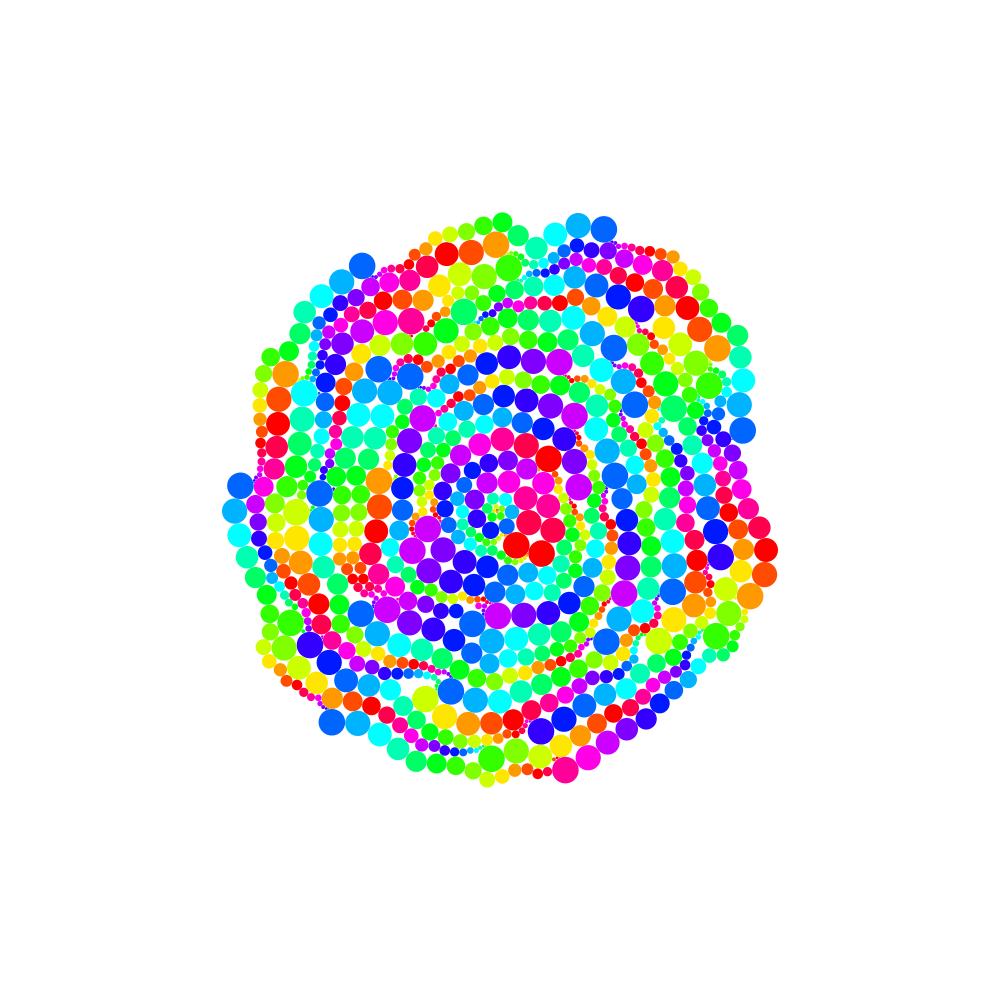
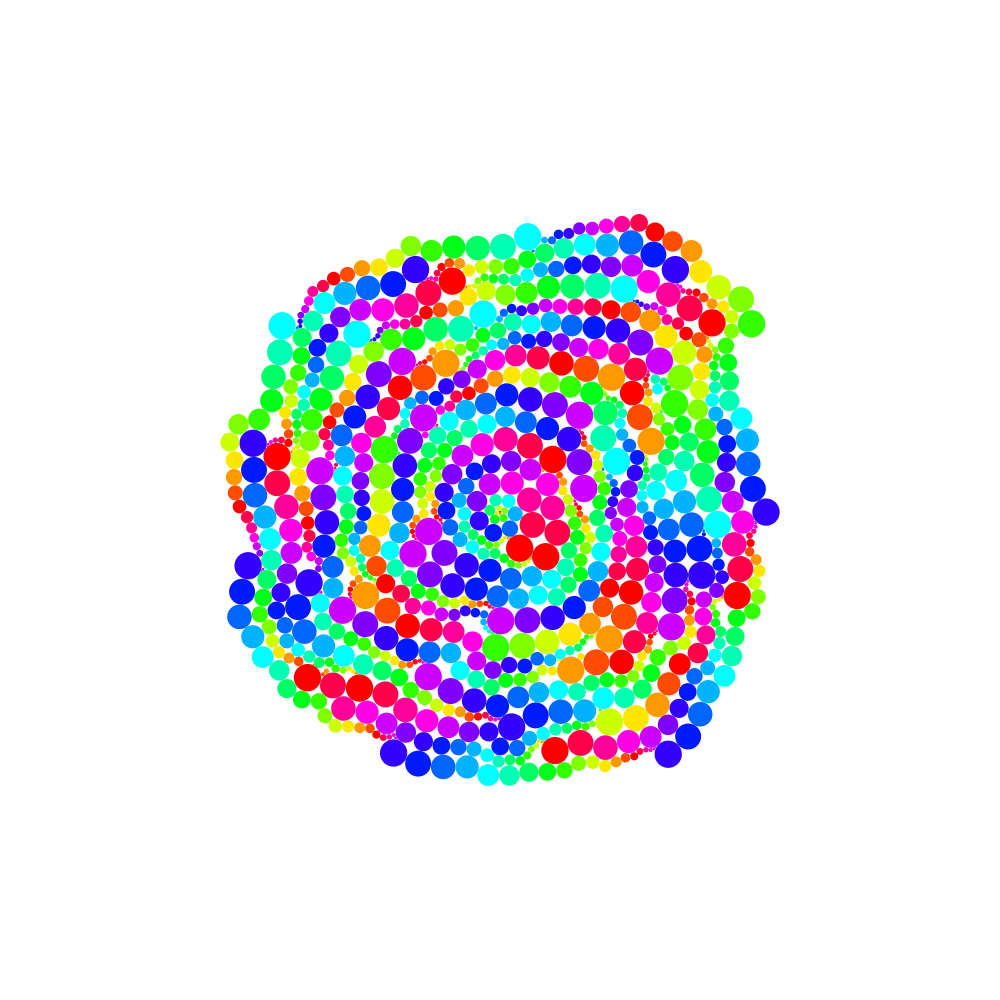
Upgrade all packing examples with new iterations

Changed region(s): [[0.217, 0.217, 0.775, 0.806]]

diff --git a/examples/main_circlepackingbaolayer.py b/examples/main_circlepackingbaolayer.py
@@ -16,13 +16,13 @@ def fdraw(node,index,style):
 poly = Circle().scale(100.0).polygon(30).close()
 canvas.draw(poly,Color.black())
 boundaries = poly.segments()
-inodes     = BaoNode.fromcircle(Circle(Point(0.0,95.0),10.0))
 baopattern = BaoPatternLayer().fdraw(fdraw).fdrawlayer(fdrawlayer).radiuspattern(R(5.0,5.0).samples(20)).colorpattern([Color.hue2color(float(index)/20.0) for index in range(20)])
+inodes     = BaoNode.fromcircle(Circle(Point(0.0,95.0),10.0))
 # baopattern = BaoPattern().fdraw(fdraw).radiuspattern(R(5.0,5.0).samples(20)).colorpattern([Color.hue2color(float(index)/20.0) for index in range(20)])
 
 # canvas.draw(inodes)
 
 # packing = CirclePackingBao.iter(boundaries,inodes,baopattern,200,-1.0)
-packing = CirclePackingBaoLayer.iter(boundaries,inodes,baopattern,10000,-1.0)
+packing = CirclePackingBaoLayer().iter(10000,boundaries,inodes,baopattern,-1.0)
 
 canvas.save("circlepackingbaolayer.png")

diff --git a/examples/main_circlepackingbaoswitch.py b/examples/main_circlepackingbaoswitch.py
@@ -10,11 +10,11 @@ def fdraw(node,index,style):
 poly = Circle().scale(100.0).polygon(30).close()
 canvas.draw(poly,Color.black())
 boundaries = poly.segments()
-inodes     = baonodes0()
 baopattern = BaoPatternSwitch().fdraw(fdraw).radiuspattern(R(1.0,2.0).samples(20)).colorpattern([Color.hue2color(float(index)/20.0) for index in range(20)]).sidepattern([1.0] * 10 + [-1.0]*10)
+inodes     = baonodes0()
 
 canvas.draw(inodes)
 
-packing = CirclePackingBaoSwitch.iter(boundaries,inodes,baopattern,5000)
+packing = CirclePackingBaoSwitch().iter(5000,boundaries,inodes,baopattern)
 
 canvas.save("circlepackingbaoswitch.png")

diff --git a/examples/main_circlepackingbao.py b/examples/main_circlepackingbao.py
@@ -8,11 +8,11 @@ def fdraw(node,index,style):
     canvas.draw(node,style)
 
 boundaries = []
-inodes     = baonodes0()
 baopattern = BaoPattern().fdraw(fdraw).radiuspattern(R(1.0,20.0).samples(20)).colorpattern([Color.hue2color(float(index)/20.0) for index in range(20)])
+inodes     = baonodes0()
 
 canvas.draw(inodes)
 
-packing = CirclePackingBao.iter(boundaries,inodes,baopattern,1000)
+packing = CirclePackingBao().iter(1000,boundaries,inodes,baopattern)
 
 canvas.save("circlepackingbao.png")
